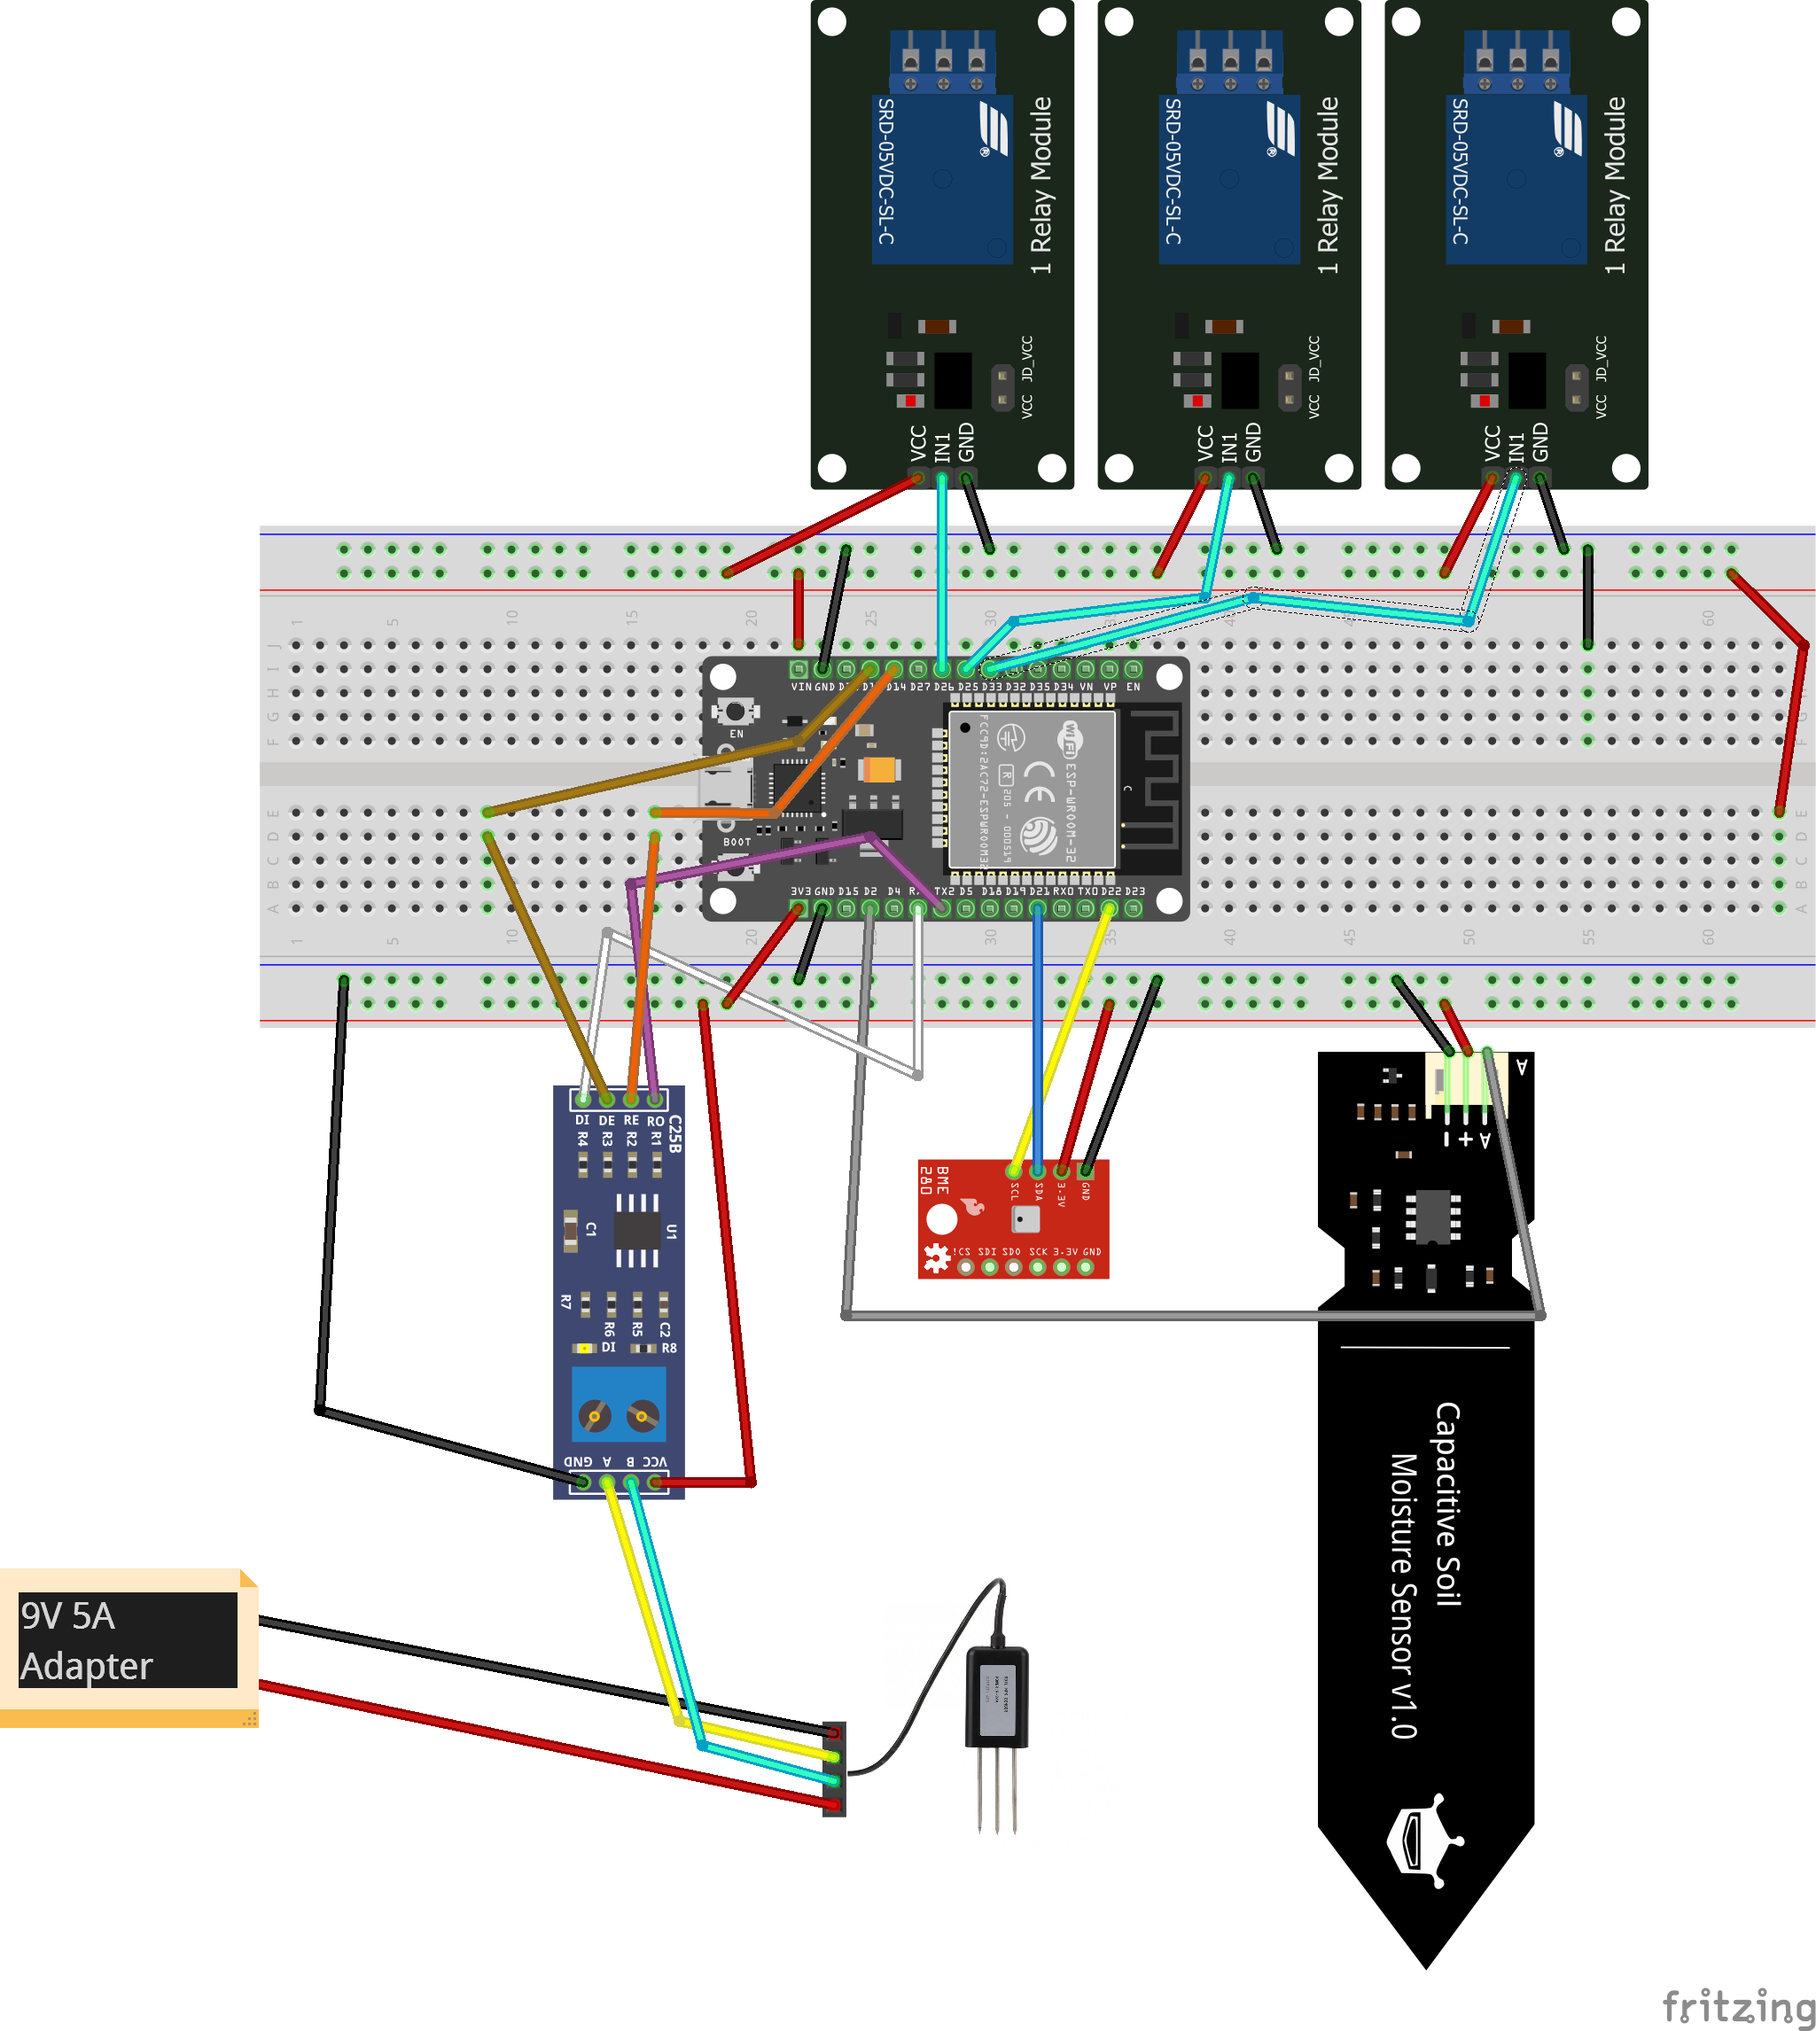
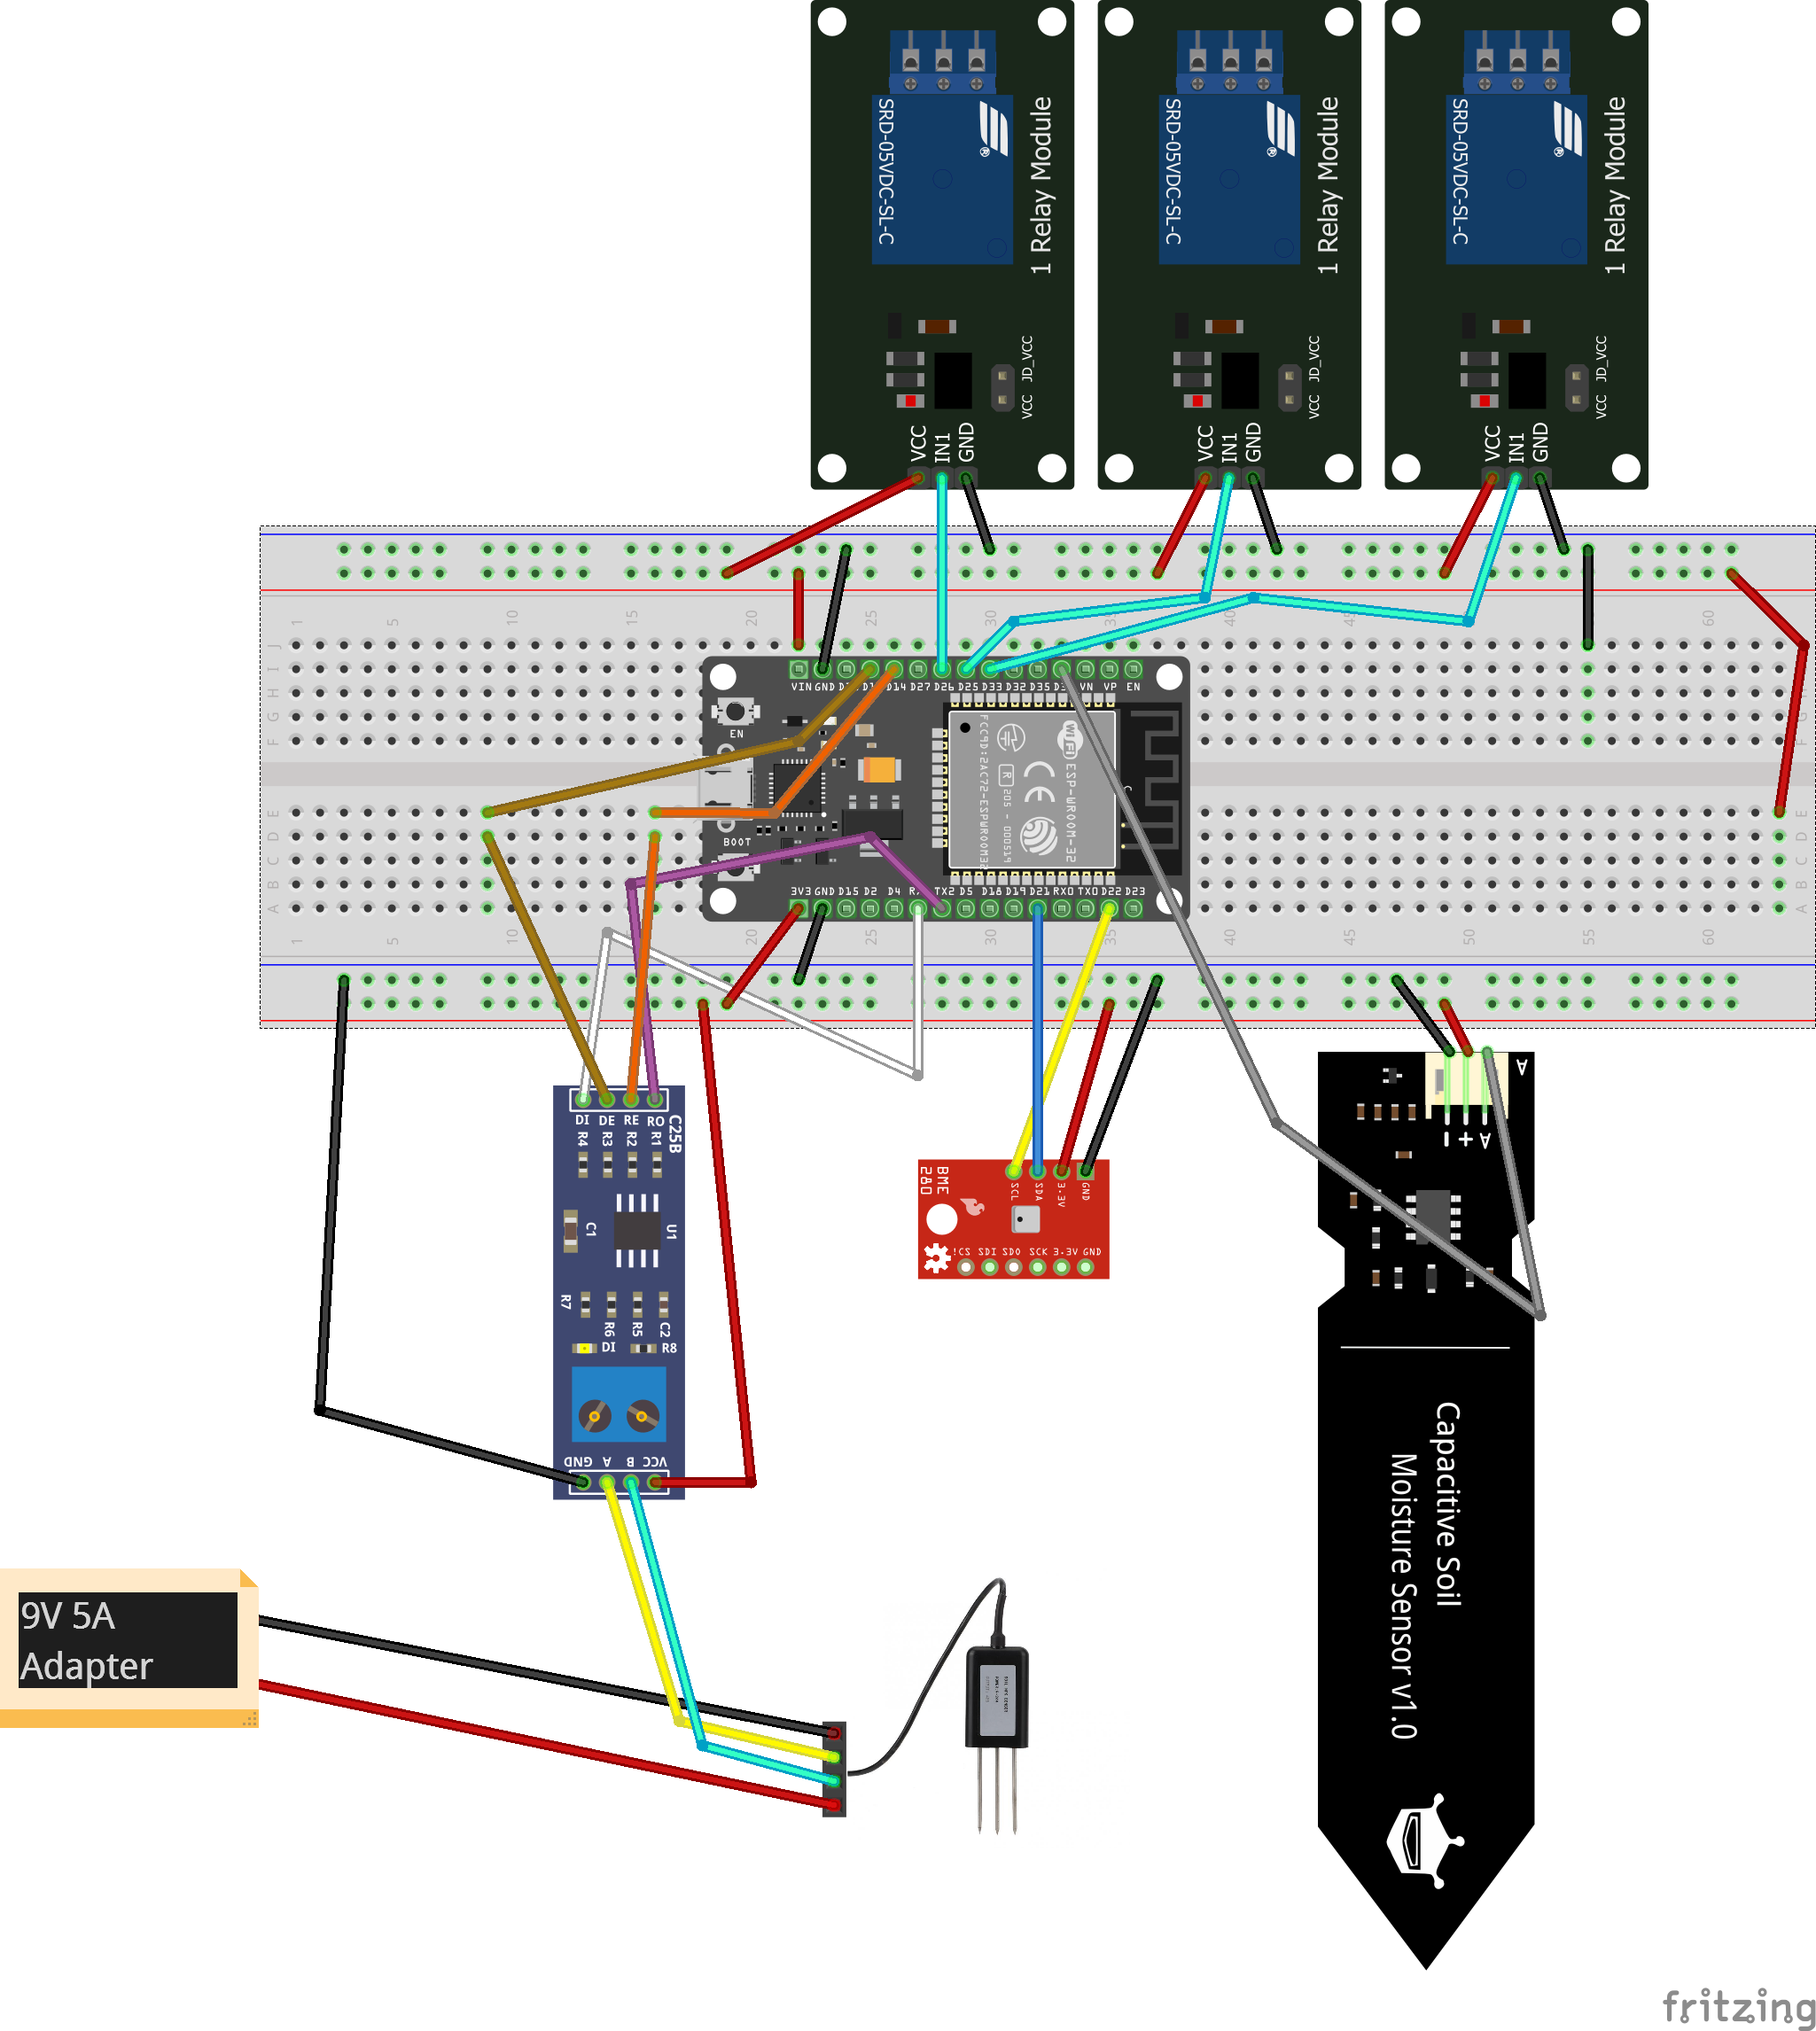
updated fw and circuit diagram to use pin34 for soil moisture sensor

diff --git a/Firmware/soilMoistureHandler.h b/Firmware/soilMoistureHandler.h
@@ -1,4 +1,4 @@
-int sensor_pin = 2;
+int sensor_pin = 34;
 int value;
 
 void setupSoilMoisture()
